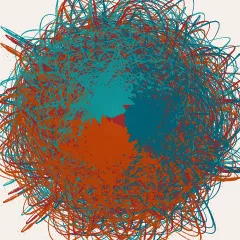
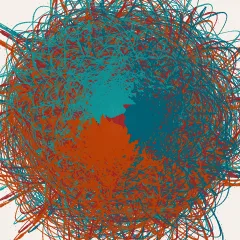
feat: skrå utstrømning — full bøtte spruter de ytre løkkene utover
Bøtta henger langs snora, så malingsstrålen forlater utløpet på skrå:
den horisontale komponenten peker radielt utover fra opphengspunktet
(exitSpeed·sin(utslagsvinkel)). calcStreamAdvection tar nå bobbens
posisjon og legger til x·tilt, y·tilt med
tilt = min(TILT_SPREAD·exitSpeed·tFall/L, TILT_MAX).

- TILT_SPREAD = 0.2 kalibrerer modellens overdrevne Torricelli-trykk
  ned til en ekte bøttes; TILT_MAX = 0.12 holder ekstreme manuelle
  oppsett på lerretet.
- Driften dør med strømmen (∝ exitSpeed·tFall) og med utslaget (∝ r):
  det tette senteret og sluttpølen er urørte, bare de ytre ringene
  skyves ~2 % av lerretet utover mens bøtta er full.
- rng-fri og bakt inn i lagrede punktkoordinater → WYSIWYG-eksporten
  spiller den av gratis; rng-rekkefølgen er urørt.
- Alle tre kallsteder oppdatert: kjøreløkka, rigg-overlayets stråle og
  baneforhåndsvisningen.

QA: tsc + next build grønne. Headless før/etter-montasje (8 presets +
Default): alt rundt og lerretsfyllende, punkttall ±0,1 %, samme
slutt-årsaker; baseline-simmen reproduserte de dokumenterte tallene
eksakt (Kaotisk 778k/tom, Rosett rest 0.076). Determinisme: samme frø →
identisk PNG, ulikt frø → ulik. Alle 8 preset-miniatyrer regenerert.

diff --git a/src/components/PaintCanvas.tsx b/src/components/PaintCanvas.tsx
@@ -398,9 +398,10 @@ export default function PaintCanvas({
         const normFlow = Math.min(flowRate / 5, 1);
 
         // Ballistic stream lag: the falling paint keeps the bucket's horizontal
-        // velocity, so it lands ahead of the bucket — never straight below it.
+        // velocity AND leaves the tilted outlet slanted outward, so it lands
+        // ahead of the bucket and slightly outside it — never straight below.
         // rng-FREE, baked into the stored point coordinates (WYSIWYG for free).
-        const adv = calcStreamAdvection(vel.vx, vel.vy, zHeight, s.pendulum.stringLength, flowRate);
+        const adv = calcStreamAdvection(vel.vx, vel.vy, zHeight, s.pendulum.stringLength, flowRate, pos.x, pos.y);
         const cx = 0.5 + (pos.x + adv.dx) * SCALE + co.ox;
         const cy = 0.5 + (pos.y + adv.dy) * SCALE + co.oy;
 
@@ -610,7 +611,7 @@ export default function PaintCanvas({
             if (pl > 0) {
               const vel = calcVelocity(tRef.current, prepared);
               const flow = calcPaintFlowRate(0, ps.viscosity, pl);
-              const adv = calcStreamAdvection(vel.vx, vel.vy, h, sRef.current.pendulum.stringLength, flow);
+              const adv = calcStreamAdvection(vel.vx, vel.vy, h, sRef.current.pendulum.stringLength, flow, pos.x, pos.y);
               const lx = (0.5 + (pos.x + adv.dx) * SCALE + co.ox) * display.width;
               const ly = (0.5 + (pos.y + adv.dy) * SCALE + co.oy) * display.height;
               // Stream thins as the Torricelli flow dies with the paint level,
@@ -755,7 +756,7 @@ export default function PaintCanvas({
       const p = calcPosition(t, prepared);
       const v = calcVelocity(t, prepared);
       const zh = calcBobHeight(p.x, p.y, settings.pendulum.stringLength);
-      const adv = calcStreamAdvection(v.vx, v.vy, zh, settings.pendulum.stringLength, exitSpeed);
+      const adv = calcStreamAdvection(v.vx, v.vy, zh, settings.pendulum.stringLength, exitSpeed, p.x, p.y);
       pts.push(`${((0.5 + (p.x + adv.dx) * SCALE) * canvasSize).toFixed(1)},${((0.5 + (p.y + adv.dy) * SCALE) * canvasSize).toFixed(1)}`);
     }
     // First loops drawn stronger than the rest: start point and direction read clearly.

diff --git a/src/lib/physics.ts b/src/lib/physics.ts
@@ -282,20 +282,35 @@ const STREAM_GAP = 0.1;
 /** Cap on the extra fall height from the swing arc (m) — real painters keep the
  *  rig low; without a cap wide throws on long strings overshoot the canvas. */
 const SWING_RISE_MAX = 0.25;
+/** Tilted-outlet spread: the bucket hangs ALONG the string, so the jet leaves
+ *  the hole slanted — its horizontal component points radially OUTWARD (away
+ *  from the pivot) with magnitude exitSpeed·sin(swing angle). 0.2 calibrates
+ *  the model's exaggerated Torricelli head (≈1 m of paint) down to a real
+ *  bucket's, so the drift stays a gentle ~2% of the canvas at full flow. */
+const TILT_SPREAD = 0.2;
+/** Cap on the outward drift per unit displacement — extreme manual setups
+ *  (short string, far drop, watery paint) must not spray off the canvas. */
+const TILT_MAX = 0.12;
 
 /** Landing offset of the falling stream (physics units — caller applies SCALE).
- *  `zHeight` is calcBobHeight's normalized rise (r²/L); the real rise is r²/2L. */
+ *  `zHeight` is calcBobHeight's normalized rise (r²/L); the real rise is r²/2L.
+ *  `x, y` = bob displacement from center: a full bucket's slanted jet pushes the
+ *  outer loops outward (∝ r and the Torricelli flow), the dying flow doesn't. */
 export function calcStreamAdvection(
   vx: number,
   vy: number,
   zHeight: number,
   stringLength: number,
   exitSpeed: number,
+  x = 0,
+  y = 0,
 ): { dx: number; dy: number } {
   const h = STREAM_GAP + Math.min(zHeight * stringLength * 0.5, SWING_RISE_MAX);
   // h = v₀t + ½gt² → t = (√(v₀² + 2gh) − v₀)/g, v₀ = downward exit speed.
   const tFall = (Math.sqrt(exitSpeed * exitSpeed + 2 * G * h) - exitSpeed) / G;
-  return { dx: vx * tFall, dy: vy * tFall };
+  // sin(swing angle) ≈ r/L → outward drift = exitSpeed·(r/L)·tFall, per unit r.
+  const tilt = Math.min(TILT_SPREAD * exitSpeed * tFall / stringLength, TILT_MAX);
+  return { dx: vx * tFall + x * tilt, dy: vy * tFall + y * tilt };
 }
 
 // ── Terminal drain pool ──

diff --git a/CLAUDE.md b/CLAUDE.md
@@ -62,7 +62,7 @@ requires the initial perpendicular velocity to be on the order of `ω·r` (a fac
   the flat solid fields in the dense center into granular drip texture (see the changed presets).
 - **Ballistic stream lag (2026-07):** the falling paint keeps the bucket's horizontal velocity,
   so it lands AHEAD of the bucket — never straight below the hole. `calcStreamAdvection(vx, vy,
-  zHeight, L, exitSpeed)` in `physics.ts`: fall height = `STREAM_GAP` (0.10 m outlet height) +
+  zHeight, L, exitSpeed, x, y)` in `physics.ts`: fall height = `STREAM_GAP` (0.10 m outlet height) +
   swing-arc rise (`zHeight·L/2`, capped 0.25 m); fall time shortened by the downward Torricelli
   exit speed (full bucket squirts fast → lands almost beneath the hole; a starving/viscous stream
   drifts further). Applied once per step in PaintCanvas BEFORE the hole loop
@@ -71,6 +71,16 @@ requires the initial perpendicular velocity to be on the order of `ω·r` (a fac
   velocity-dependent sweep/twist of the whole pattern; the rig bob deliberately stays at the TRUE
   bob position, so live you see the paint land ahead of the bucket. The orbit path preview applies
   the same advection (full-bucket exit-speed approximation) so it shows where the PAINT goes.
+- **Tilted-outlet spread (2026-07):** the bucket hangs ALONG the string, so the jet leaves the
+  hole slanted — its horizontal component points radially OUTWARD (away from the pivot) with
+  magnitude `exitSpeed·sin(swing angle)`. The `x, y` params of `calcStreamAdvection` (bob
+  displacement) add `x·tilt, y·tilt` with `tilt = min(TILT_SPREAD·exitSpeed·tFall/L, TILT_MAX)`
+  (`TILT_SPREAD = 0.2` calibrates the model's exaggerated ~1 m Torricelli head down to a real
+  bucket's; `TILT_MAX = 0.12` keeps extreme manual setups — short string, far drop — on the
+  canvas). Effect: a FULL bucket pushes the outer loops ~2% of the canvas outward; the drift dies
+  with the flow (∝ exitSpeed·tFall) and with r, so the dense center and the terminal pool are
+  untouched. rng-FREE, baked into stored coordinates → WYSIWYG free. All three call sites pass
+  the bob position (run loop, rig-overlay stream, orbit preview) — keep them in sync.
 - `calcBobHeight` must depend on L (longer string → smaller swing angle → flatter arc → less spread).
 
 ## 3. WYSIWYG export — the core invariant (READ BEFORE TOUCHING `painter.ts`)
@@ -257,6 +267,14 @@ with the nextSeed counter continuing.
 thins with the Torricelli flow (`normFlow`) and is drawn DASHED while `calcStreamBreakup` says
 the starving jet sputters — the overlay shows what the paint on the canvas is doing. Zero
 WYSIWYG/determinism impact.
+· tilted-outlet spread (2026-07, see §2): the slanted jet from the string-aligned bucket pushes
+the outer loops outward while the bucket is full; the drift dies with the flow and with r.
+Affects every preset (no byte-identical baseline) — QA was before/after montage comparison:
+all 9 renders round & canvas-filling, point counts ±0.1% (endReasons unchanged; the baseline sim
+reproduced the documented 2026-07 numbers exactly — Kaotisk ≈778k/empty, Rosett rest 0.076,
+Zen 0.898 …), same-seed/diff-seed determinism PASS; ALL 8 picker thumbnails regenerated in the
+same pass. **The headless QA sim must pass `pos.x, pos.y` to `calcStreamAdvection`** exactly
+like the run loop does — omitting them silently reverts to the pre-tilt pattern.
 
 Remaining:
 1. **i18n** (English toggle) to widen reach.
